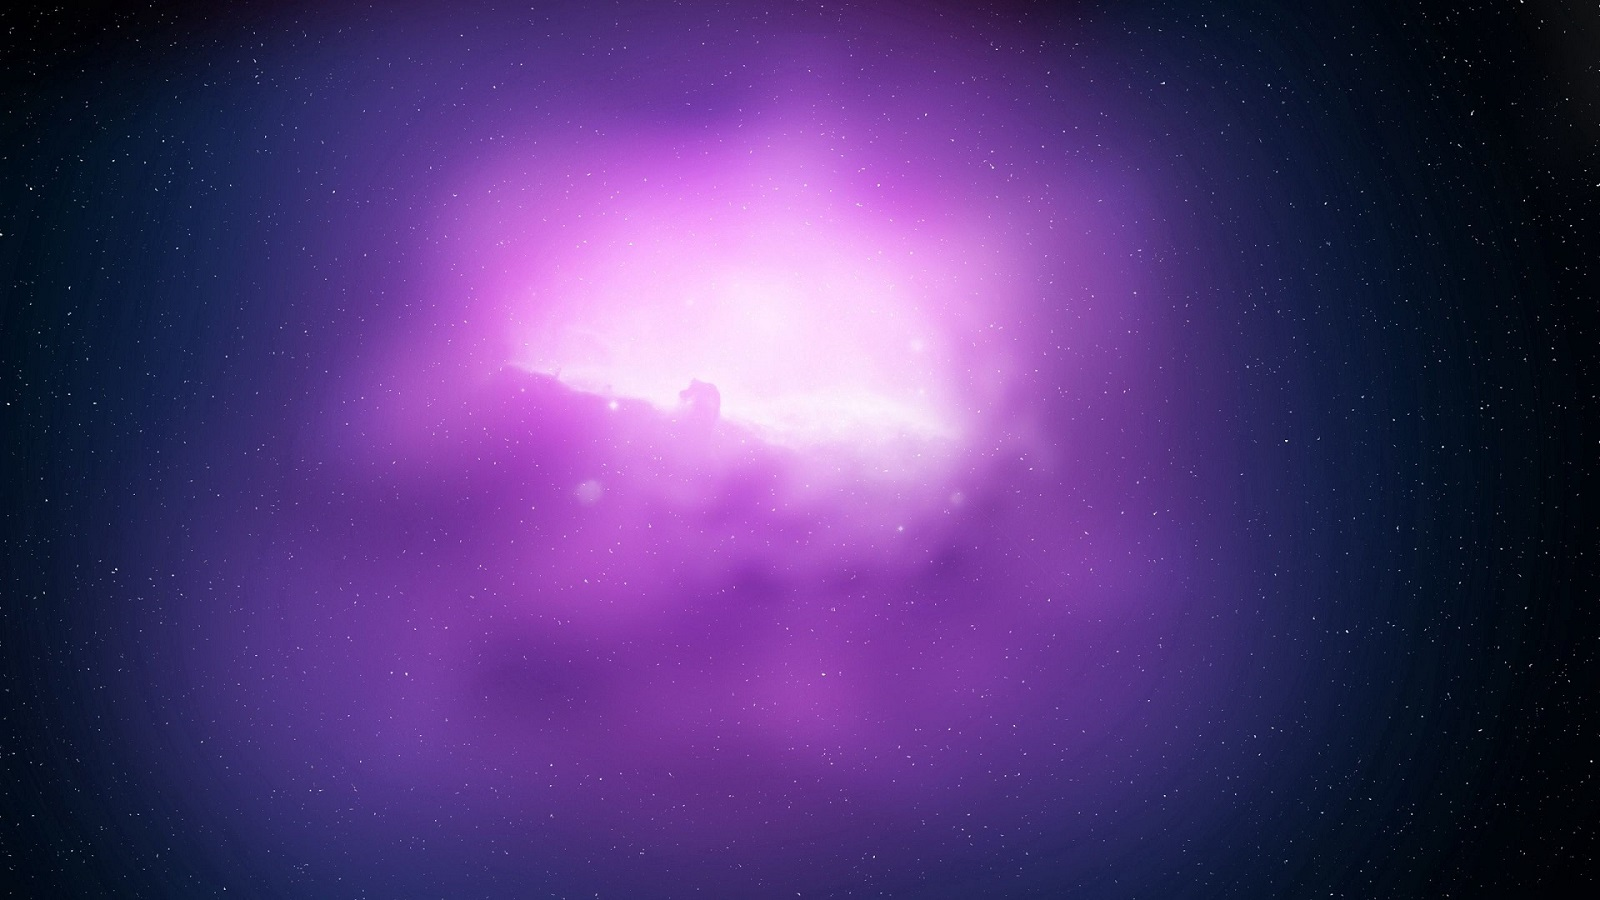
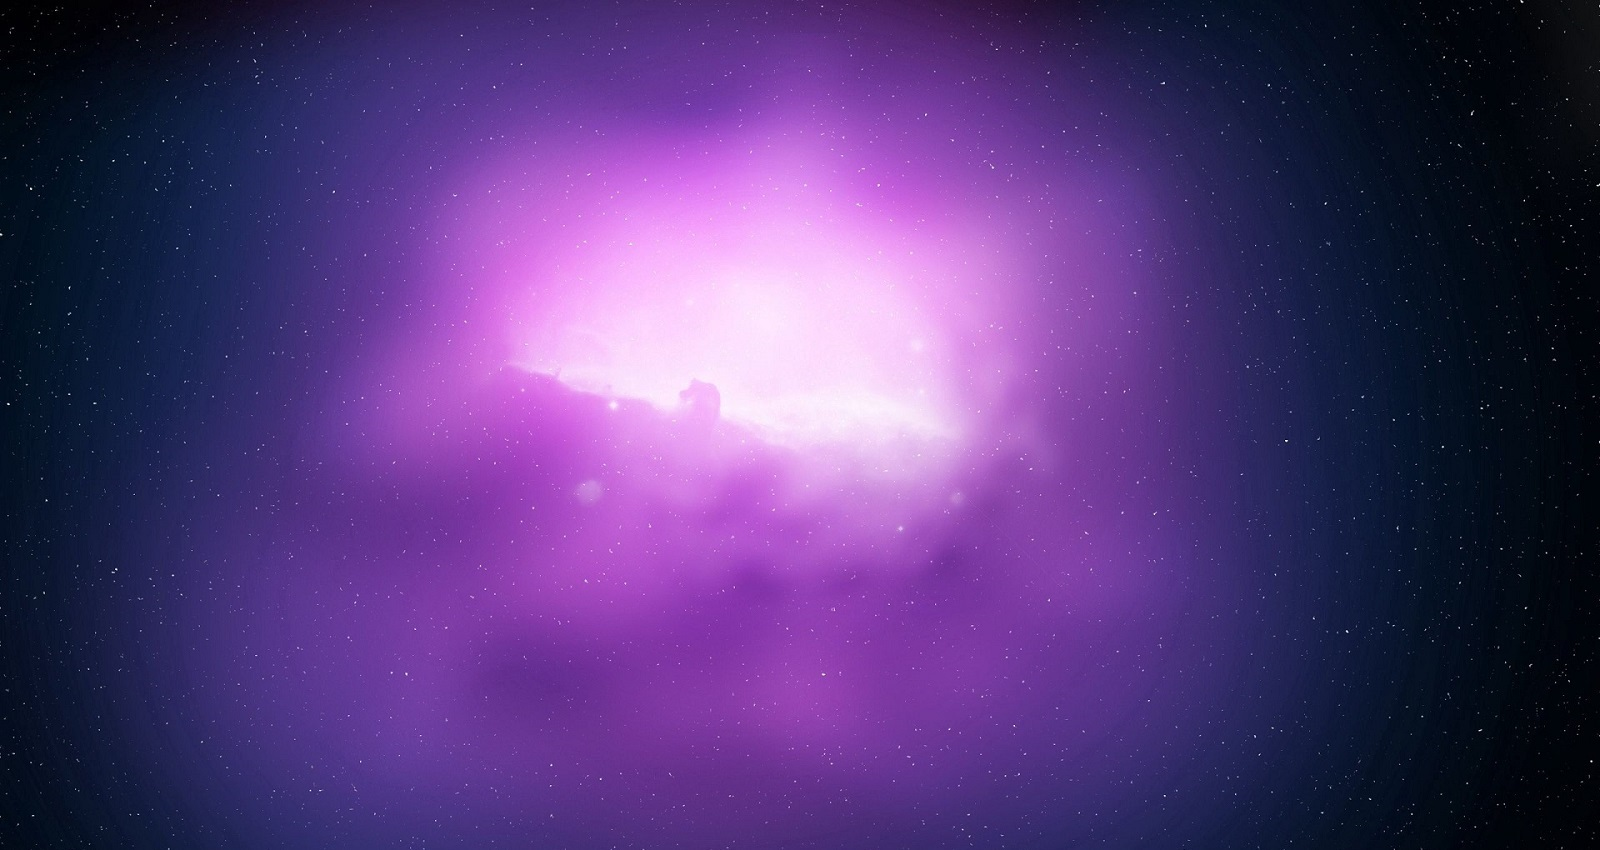
Три в ряд, готово2

diff --git a/1.py b/1.py
@@ -1,18 +1,17 @@
 import pygame
 import copy
 import random
-import sys
 global win, board_rect, img, this_clock, button
 global click_continue_text_rect
 
 FPS = 30  # кадров в секунду для обновления экрана
 # размеры
 win_width = 1600  # ширина окна программы в пикселях
-win_height = 900  # высота
+win_height = 850  # высота
 
 # поле
 board_column = 10  # столбцов
-board_line = 10  # строк
+board_line = 9  # строк
 size_rect = 70  # ширина и высота
 
 # Количество места по бокам доски до края окна
@@ -39,12 +38,13 @@ def main():
 
     win.blit(bg, (0, 0))  # фон
     font = pygame.font.Font('19343.ttf', 150)
+
     text = font.render("Три в ряд", True, (169, 9, 80))
     win.blit(text, [460, 200])
     button = pygame.Rect(0, 0, 1600, 900)
     font1 = pygame.font.Font('appetite-italic.ttf', 70)
-    text1 = font1.render("Начать", True, (219, 112, 147))
-    win.blit(text1, [630, 350])
+    text1 = font1.render("Начать", True, (42, 0, 70))
+    win.blit(text1, [630, 400])
     pygame.display.update()
 
     # загрузка фотографий
@@ -58,7 +58,7 @@ def main():
 
     # координаты квадратов
     board_rect = []
-    for x in range(board_column):  # рисуем квадраты
+    for x in range(board_column):
         board_rect.append([])
         for y in range(board_line):
             r = pygame.Rect((x_otstup + (x * size_rect),  # rect(x,y, ширина,высота)
@@ -71,7 +71,6 @@ def main():
         for event in pygame.event.get():  # цикл обработки событий
             if event.type == pygame.QUIT or (event.type == pygame.KEYUP and event.key == pygame.K_ESCAPE):
                 pygame.quit()
-                sys.exit()
             elif event.type == pygame.MOUSEBUTTONDOWN:
                 mouse_down_x, mouse_down_y = event.pos
                 if button.collidepoint(mouse_down_x, mouse_down_y):
@@ -100,7 +99,6 @@ def run():
         for event in pygame.event.get():  # цикл обработки событий
             if event.type == pygame.QUIT or (event.type == pygame.KEYUP and event.key == pygame.K_ESCAPE):
                 pygame.quit()
-                sys.exit()
 
             elif event.type == pygame.KEYUP and event.key == pygame.K_BACKSPACE:  # обновляет игру, если нажат backspace
                 # KEYUP - кнопка не нажата, K_BACKSPACE
@@ -148,7 +146,7 @@ def run():
             matched_gems = find_matching_gems(game_board)
 
             if not matched_gems:
-                if score > 10:
+                if score >= 10:
                     score -= 10
                 # Не было совпадающих камней, вернуть все обратно
                 animate_moving_gems(board_copy, [first_swapping_gem, second_swapping_gem], [], score)
@@ -204,7 +202,7 @@ def run():
 
 # 15
 def highlight_space(x, y):
-    pygame.draw.rect(win, (0, 0, 0), board_rect[x][y], 4)  # рисует границу
+    pygame.draw.rect(win, (128, 0, 128), board_rect[x][y], 4)  # рисует границу
 
 
 # 0
